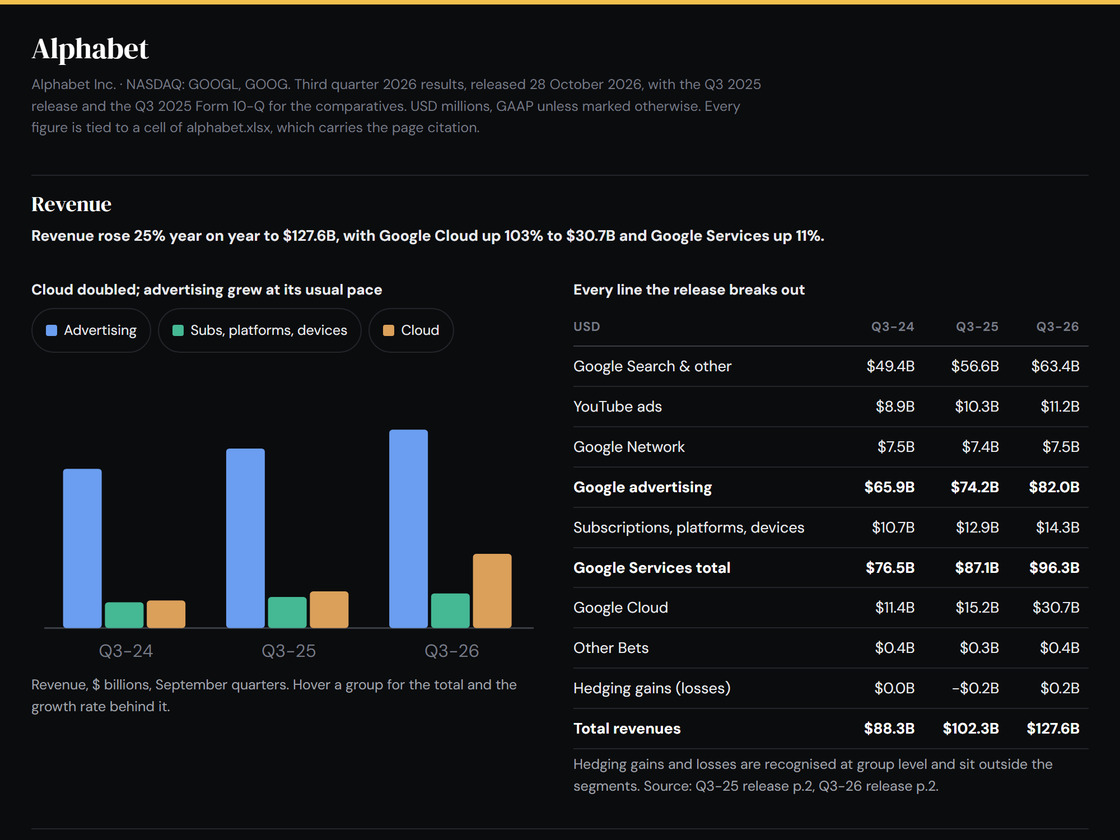
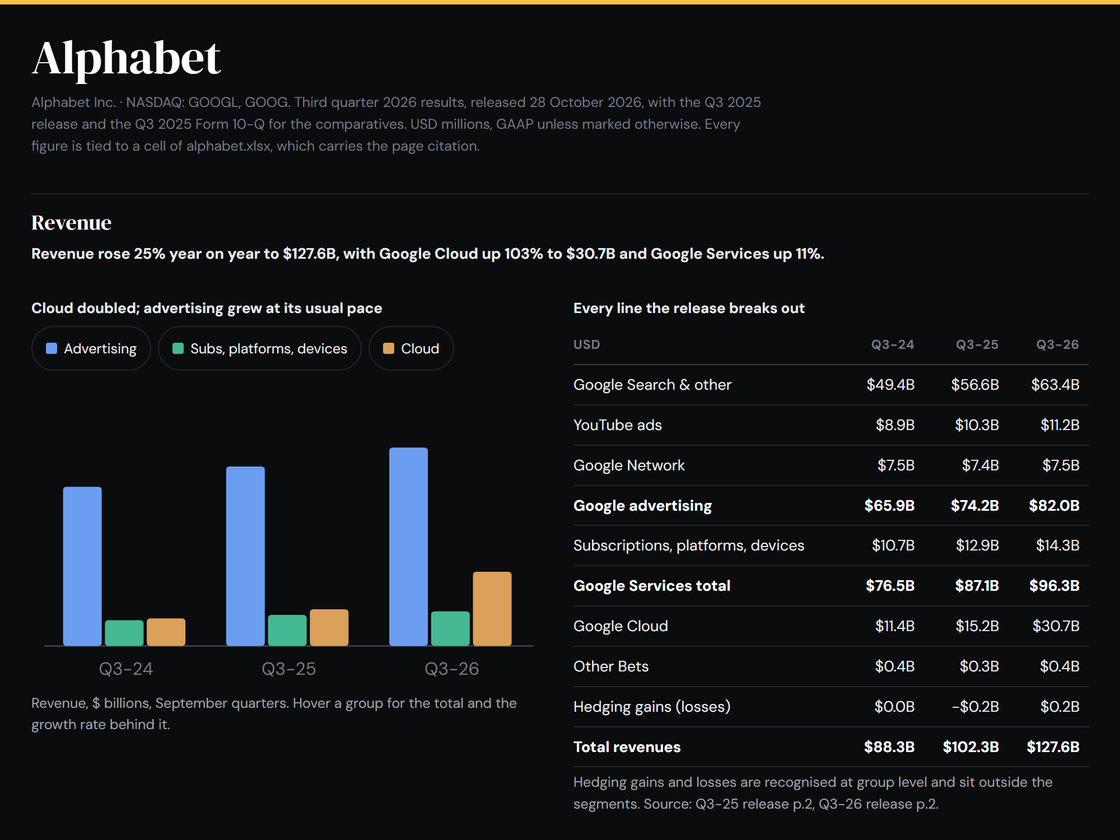
new

diff --git a/index.html b/index.html
@@ -50,7 +50,7 @@
   .feature .txt { padding: 36px; display: flex; flex-direction: column; gap: 12px; justify-content: center; }
   .badge { align-self: flex-start; font-size: 12px; font-weight: 700; letter-spacing: .1em; text-transform: uppercase;
            color: var(--band); background: #cfe6ee; padding: 4px 10px; border-radius: 4px; }
-  .feature h2 { font-size: 34px; line-height: 1.1; margin: 0; }
+  .feature h2 { font-size: 38px; line-height: 1.06; margin: 0; }
   .feature p { margin: 0; color: var(--ink-2); }
 
   /* Hover animation shared by the featured company and every card:
@@ -86,7 +86,7 @@
                    transform-origin: top center; transition: transform .3s; }
   .card:hover .img img { transform: scale(1.03); }
   .card .topic { margin: 16px 0 4px; font-size: 12px; font-weight: 700; letter-spacing: .1em; text-transform: uppercase; color: var(--c); }
-  .card h4 { font-size: 23px; line-height: 1.2; margin: 0 0 6px; transition: color .25s; }
+  .card h4 { font-size: 27px; line-height: 1.15; margin: 0 0 8px; transition: color .25s; }
   .card:hover h4 { color: var(--c); }
   .card p { margin: 0; color: var(--ink-2); font-size: 15px; }
   a:focus-visible { outline: 3px solid var(--accent); outline-offset: 3px; }
@@ -100,7 +100,8 @@
     .feature { grid-template-columns: 1fr; margin-top: -64px; }
     .feature .img { min-height: 0; aspect-ratio: 16 / 9; }
     .feature .txt { padding: 24px 20px; }
-    .feature h2 { font-size: 28px; }
+    .feature h2 { font-size: 30px; }
+    .card h4 { font-size: 24px; }
     .section { margin-top: 48px; }
     .grid { grid-template-columns: 1fr; }   /* one card per row: half a phone screen is too narrow */
   }

diff --git a/Alphabet/index.html b/Alphabet/index.html
@@ -42,7 +42,7 @@ a{color:inherit}
 .back{display:inline-flex;align-items:center;min-height:44px;color:var(--ink2);
   text-decoration:none;font-size:13px}
 .back:hover,.back:focus-visible{color:var(--accent)}
-h1{margin:6px 0 0;color:#fff;font-size:26px;line-height:1.15}
+h1{margin:6px 0 2px;color:#fff;font-size:clamp(32px,4.4vw,42px);line-height:1.1}   /* the company name carries the page, and it is what the homepage card preview shows */
 .meta{margin:8px 0 0;font-size:12.5px;color:var(--muted);max-width:78ch}
 
 /* ---- one flat section per topic, separated by a hairline ---- */

diff --git a/Anthropic/index.html b/Anthropic/index.html
@@ -42,7 +42,7 @@ a{color:inherit}
 .back{display:inline-flex;align-items:center;min-height:44px;color:var(--ink2);
   text-decoration:none;font-size:13px}
 .back:hover,.back:focus-visible{color:var(--accent)}
-h1{margin:6px 0 0;color:#fff;font-size:26px;line-height:1.15}
+h1{margin:6px 0 2px;color:#fff;font-size:clamp(32px,4.4vw,42px);line-height:1.1}   /* the company name carries the page, and it is what the homepage card preview shows */
 .meta{margin:8px 0 0;font-size:12.5px;color:var(--muted);max-width:78ch}
 
 /* ---- one flat section per topic, separated by a hairline ---- */

diff --git a/SpaceX/index.html b/SpaceX/index.html
@@ -42,7 +42,7 @@ a{color:inherit}
 .back{display:inline-flex;align-items:center;min-height:44px;color:var(--ink2);
   text-decoration:none;font-size:13px}
 .back:hover,.back:focus-visible{color:var(--accent)}
-h1{margin:6px 0 0;color:#fff;font-size:26px;line-height:1.15}
+h1{margin:6px 0 2px;color:#fff;font-size:clamp(32px,4.4vw,42px);line-height:1.1}   /* the company name carries the page, and it is what the homepage card preview shows */
 .meta{margin:8px 0 0;font-size:12.5px;color:var(--muted);max-width:78ch}
 
 /* ---- one flat section per topic, separated by a hairline ---- */

diff --git a/assets/report.css b/assets/report.css
@@ -36,7 +36,7 @@ a{color:inherit}
 .back{display:inline-flex;align-items:center;min-height:44px;color:var(--ink2);
   text-decoration:none;font-size:13px}
 .back:hover,.back:focus-visible{color:var(--accent)}
-h1{margin:6px 0 0;color:#fff;font-size:26px;line-height:1.15}
+h1{margin:6px 0 2px;color:#fff;font-size:clamp(32px,4.4vw,42px);line-height:1.1}   /* the company name carries the page, and it is what the homepage card preview shows */
 .meta{margin:8px 0 0;font-size:12.5px;color:var(--muted);max-width:78ch}
 
 /* ---- one flat section per topic, separated by a hairline ---- */
